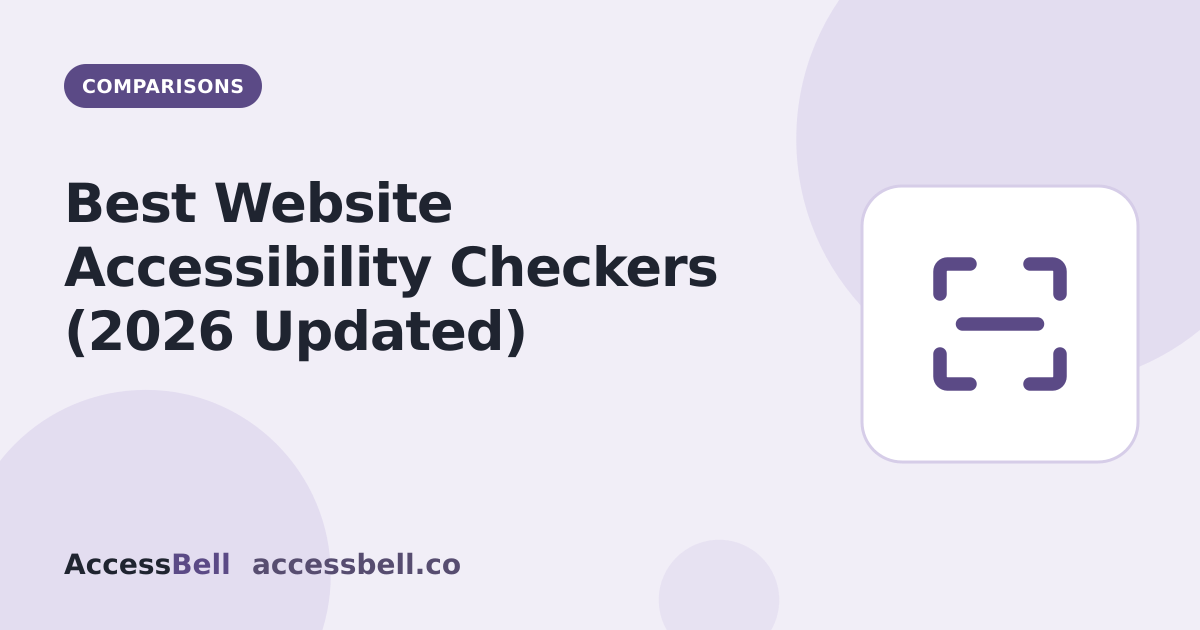
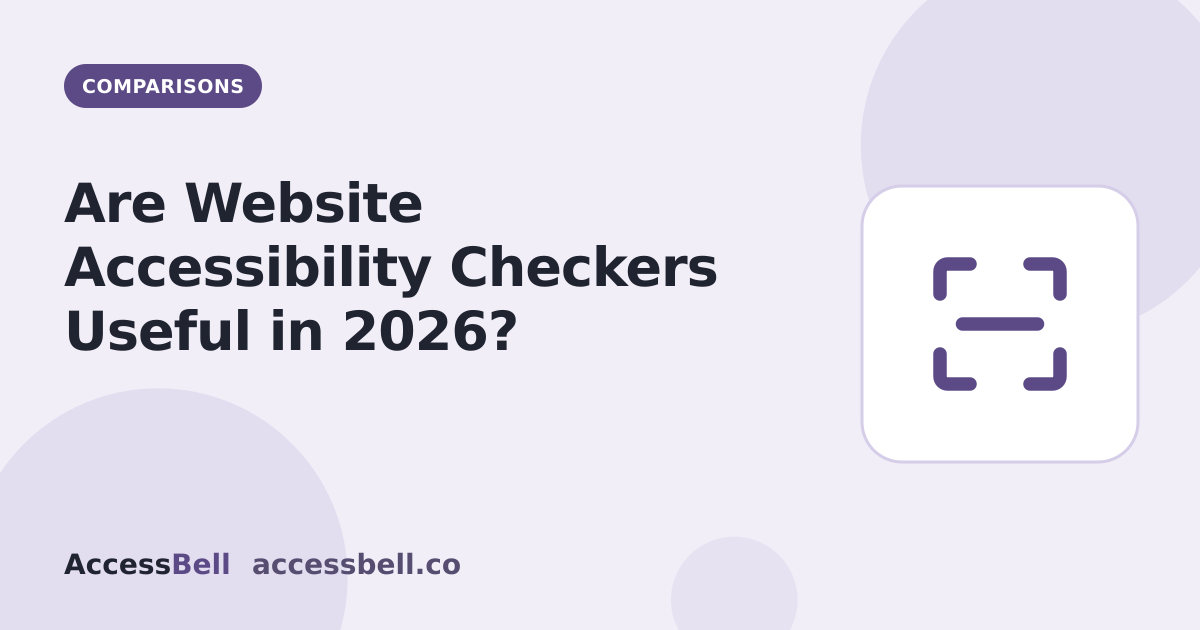
Blog: H1 of the website accessibility checkers post matches its title tag
Claude-Session: https://claude.ai/code/session_01Fr9hLL7DbfnsTANKsbdovs

Changed region(s): [[0.0617, 0.4825, 0.4625, 0.573], [0.0617, 0.2714, 0.4008, 0.3619]]

diff --git a/src/content/blog/website-accessibility-checkers.md b/src/content/blog/website-accessibility-checkers.md
@@ -1,5 +1,5 @@
 ---
-title: 'Best Website Accessibility Checkers (2026 Updated)'
+title: 'Are Website Accessibility Checkers Useful in 2026?'
 seoTitle: 'Are Website Accessibility Checkers Useful in 2026?'
 description: 'We compared the best website accessibility checkers on the market in 2026 by engine, pricing and real code fixes, to help you choose the right one.'
 pubDate: 2026-09-29
